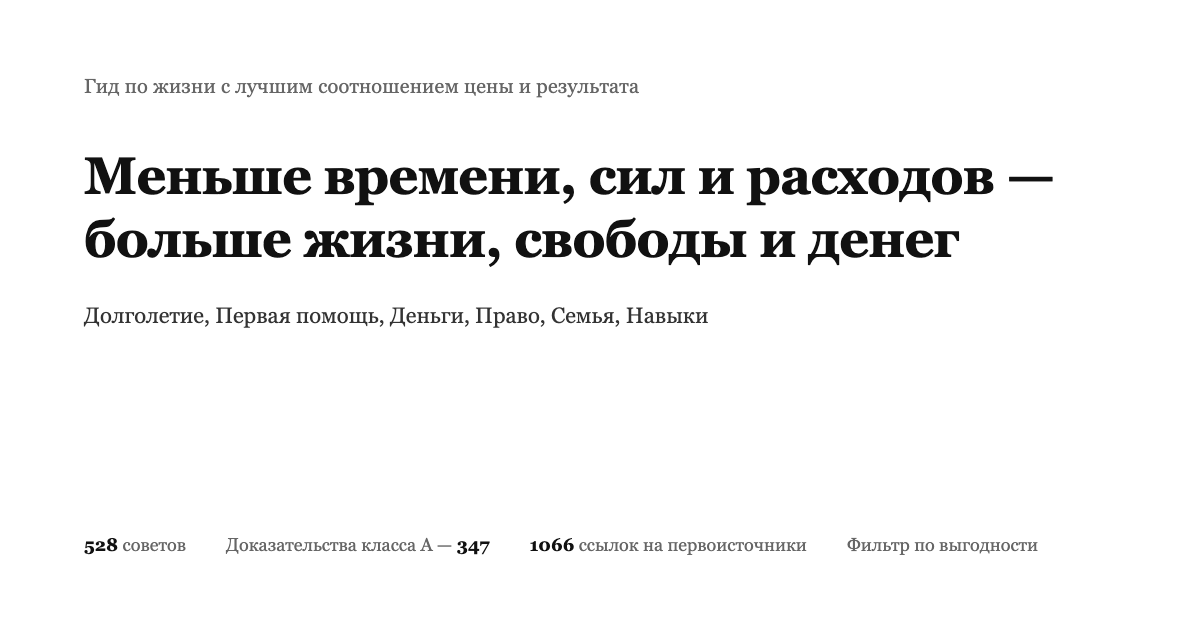
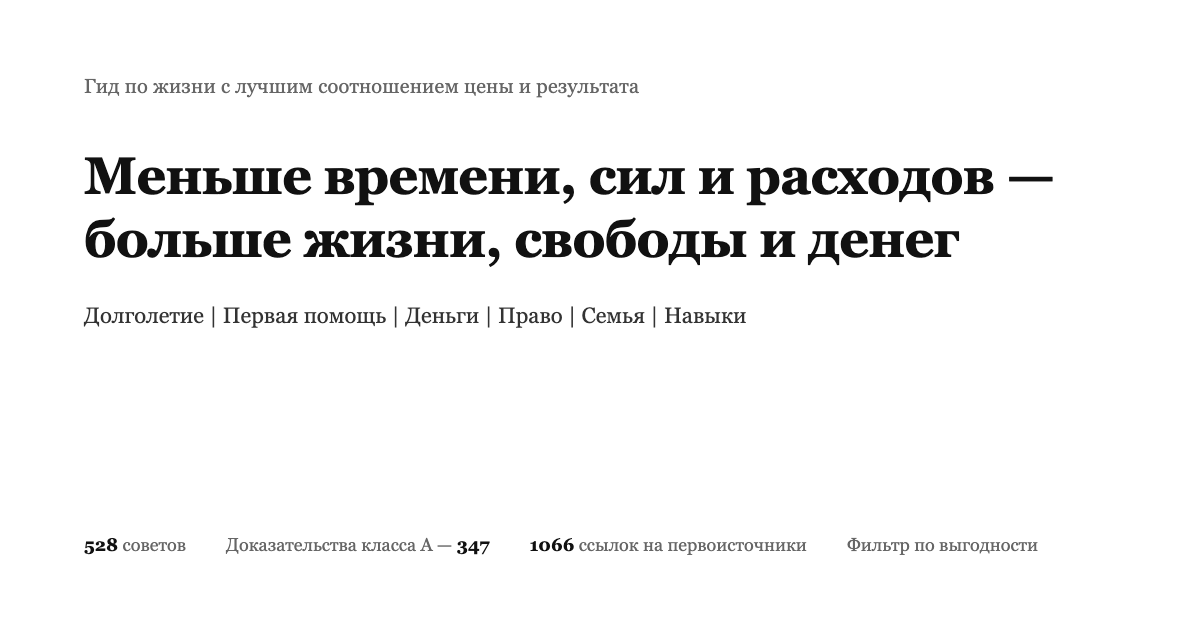
design(og): use pipe separators for topic lists (#41)
Replace commas/顿号 with « | » on CN/EN/RU banners; bump README cache-bust.

Changed region(s): [[0.1542, 0.4825, 0.6167, 0.5127]]

diff --git a/tools/og-ru.html b/tools/og-ru.html
@@ -27,7 +27,7 @@ h1{margin-top:44px;font-size:52px;line-height:1.22;letter-spacing:-.015em;color:
 <div class="in">
   <div class="brand">Гид по жизни с лучшим соотношением цены и результата</div>
   <h1>Меньше времени, сил и расходов —<br>больше жизни, свободы и денег</h1>
-  <p class="topics">Долголетие, Первая помощь, Деньги, Право, Семья, Навыки</p>
+  <p class="topics">Долголетие | Первая помощь | Деньги | Право | Семья | Навыки</p>
   <div class="stats">
     <span><b>528</b> советов</span>
     <span>Доказательства класса A — <b>347</b></span>

diff --git a/tools/og.html b/tools/og.html
@@ -29,7 +29,7 @@ h1{margin-top:44px;font-size:64px;line-height:1.2;letter-spacing:-.015em;color:#
 <div class="in">
   <div class="brand">高性价比人生指南</div>
   <h1>用最少的钱、时间和精力，<br>换回寿命、金钱和自由</h1>
-  <p class="topics">长寿防病、急救、省钱理财、法律红线、失业兜底、恋爱婚育、出国、技能</p>
+  <p class="topics">长寿防病 | 急救 | 省钱理财 | 法律红线 | 失业兜底 | 恋爱婚育 | 出国 | 技能</p>
   <div class="stats">
     <span><b>528</b> 条建议</span>
     <span>A 级证据 <b>347</b> 条</span>

diff --git a/tools/og-en.html b/tools/og-en.html
@@ -27,7 +27,7 @@ h1{margin-top:44px;font-size:56px;line-height:1.22;letter-spacing:-.015em;color:
 <div class="in">
   <div class="brand">HowToLiveBetter: The Best-Value Life Guide</div>
   <h1>Less time, effort, and expense —<br>more life, freedom, and money</h1>
-  <p class="topics">Longevity, First aid, Money, Law, Safety net, Family, Skills</p>
+  <p class="topics">Longevity | First aid | Money | Law | Safety net | Family | Skills</p>
   <div class="stats">
     <span><b>528</b> tips</span>
     <span>Grade-A evidence — <b>347</b></span>

diff --git a/README.ru.md b/README.ru.md
@@ -1,6 +1,6 @@
 <div align="center">
 
-<img src="og-ru.png?v=20260922" alt="Гид по жизни с лучшим соотношением цены и результата — меньше времени, сил и расходов, больше жизни, свободы и денег" width="820">
+<img src="og-ru.png?v=20260922c" alt="Гид по жизни с лучшим соотношением цены и результата — меньше времени, сил и расходов, больше жизни, свободы и денег" width="820">
 
 # Гид по жизни с лучшим соотношением цены и результата
 

diff --git a/README.zh.md b/README.zh.md
@@ -1,6 +1,6 @@
 <div align="center">
 
-<img src="og.png?v=20260922" alt="高性价比人生指南 —— 用最少的钱、时间和精力，换回最多的寿命、金钱和人身自由" width="820">
+<img src="og.png?v=20260922c" alt="高性价比人生指南 —— 用最少的钱、时间和精力，换回最多的寿命、金钱和人身自由" width="820">
 
 # 高性价比人生指南
 

diff --git a/README.md b/README.md
@@ -1,6 +1,6 @@
 <div align="center">
 
-<img src="og-en.png?v=20260922" alt="HowToLiveBetter — less time, effort, and expense for more life, freedom, and money" width="820">
+<img src="og-en.png?v=20260922c" alt="HowToLiveBetter — less time, effort, and expense for more life, freedom, and money" width="820">
 
 # HowToLiveBetter: The Best-Value Life Guide
 
